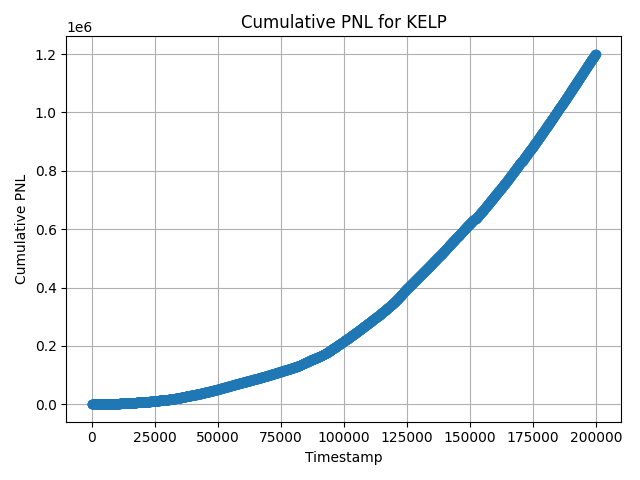
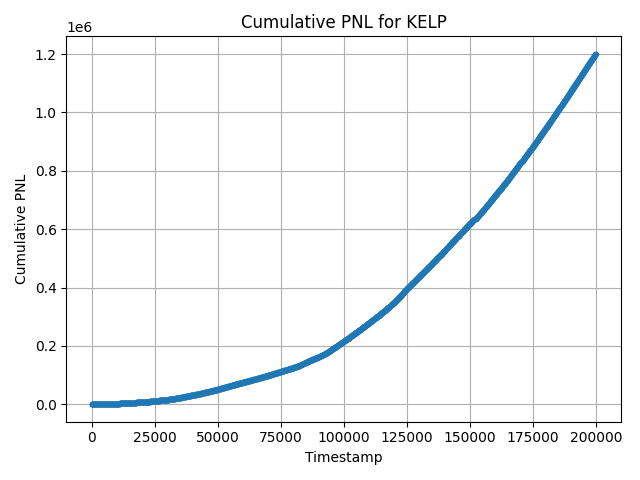
improved plots look

diff --git a/distiller.py b/distiller.py
@@ -131,7 +131,6 @@ for entry in sandbox_json_objects:
     if "lambdaLog" in entry:
         lambda_log_str = entry["lambdaLog"].strip()
         if not lambda_log_str:
-            # Skip entries with empty lambdaLog
             continue
         try:
             lambda_log = json.loads(lambda_log_str)
@@ -281,7 +280,7 @@ def plot_cumulative_pnl(product, df):
     df.sort_values('timestamp', inplace=True)
     df['cumulative_pnl'] = df['pnl'].cumsum()
     plt.figure()
-    plt.plot(df['timestamp'], df['cumulative_pnl'], marker='o')
+    plt.plot(df['timestamp'], df['cumulative_pnl'], marker='o', markersize=3)
     plt.title(f'Cumulative PNL for {product}')
     plt.xlabel('Timestamp')
     plt.ylabel('Cumulative PNL')
